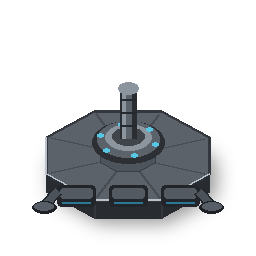
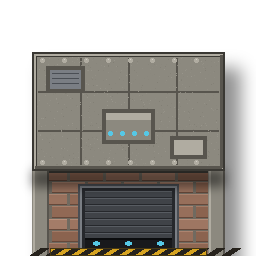
Rebuild the garage as a masonry building with the roboport antenna
The platform never looked like somewhere drones are kept. It is now a
building: brick wall, concrete roof, a roll up door with hazard paint on
the threshold and lights in the opening. The antenna that turns on the
roof is the roboport one from the base game, which is what it should
have been from the start, so the hand drawn sheet is gone.

diff --git a/tools/gen_garage.py b/tools/gen_garage.py
@@ -1,196 +1,188 @@
-"""Generates the drone garage sprites: a 3x3 platform plus a rotating antenna animation."""
+"""Draws the drone garage: a masonry building in the game's own palette, 3x3 tiles.
+
+The antenna on the roof is not drawn here, the mod borrows the roboport one from the base game.
+Run this from the mod root to overwrite the sprites in data/entities/graphics/.
+"""
 import math
+import random
 from PIL import Image, ImageDraw, ImageFilter
 
-OUT = "/mnt/SSD/git-projeto/factorio_construction_drones/Construction_Drones/data/entities/graphics/"
+OUT = "data/entities/graphics/"
 
-STEEL_DARK = (52, 56, 62)
-STEEL = (92, 98, 106)
-STEEL_LIGHT = (140, 148, 158)
-STEEL_HIGH = (186, 194, 202)
-RUST = (104, 84, 66)
+SIZE = 256
+TILE = 64                      # high resolution, the sprite is drawn at half scale
+FOOT = 3 * TILE                # a three by three footprint
+CENTER = (128, 160)            # where the entity position falls on the canvas
+WALL_H = 86                    # how tall the brick wall stands
+ROOF_H = 118                   # the roof is foreshortened, the game looks at buildings from an angle
+
+CONCRETE = (140, 137, 127)
+CONCRETE_LIGHT = (176, 172, 161)
+CONCRETE_DARK = (88, 85, 78)
+CONCRETE_DEEP = (58, 56, 51)
+BRICK = (152, 112, 92)
+BRICK_DARK = (102, 72, 58)
+MORTAR = (112, 106, 96)
+METAL = (122, 126, 132)
+METAL_DARK = (74, 78, 84)
+HAZARD = (214, 163, 32)
 ACCENT = (86, 200, 230)
-ACCENT_DIM = (44, 120, 148)
 
-BASE_SIZE = 256          # canvas of the static platform, high res (64 px per tile)
-FOOT = 192               # 3 tiles
-CENTER = (128, 156)      # where the structure sits on the canvas
+random.seed(7)
 
 
-def bevel_polygon(draw, points, fill, light, dark, width=3):
-    draw.polygon(points, fill=fill)
-    n = len(points)
-    for i in range(n):
-        a, b = points[i], points[(i + 1) % n]
-        # edges facing up/left catch the light
-        up = (a[1] + b[1]) / 2 < sum(p[1] for p in points) / n
-        draw.line([a, b], fill=light if up else dark, width=width)
+def footprint():
+    cx, cy = CENTER
+    return [cx - FOOT / 2, cy - FOOT / 2, cx + FOOT / 2, cy + FOOT / 2]
 
 
-def iso_ellipse(draw, cx, cy, rx, ry, **kw):
-    draw.ellipse([cx - rx, cy - ry, cx + rx, cy + ry], **kw)
+def brick_wall(draw, box, rows=7):
+    """Masonry: staggered courses, each brick shaded a little differently."""
+    x0, y0, x1, y1 = box
+    draw.rectangle(box, fill=MORTAR)
+    height = (y1 - y0) / rows
+    for row in range(rows):
+        top = y0 + row * height
+        bottom = top + height - 2
+        offset = 0 if row % 2 == 0 else -18
+        x = x0 + offset
+        while x < x1:
+            bx0, bx1 = max(x0, x + 2), min(x1, x + 34)
+            if bx1 - bx0 > 3:
+                shade = random.randint(-14, 14)
+                fill = tuple(max(0, min(255, c + shade)) for c in BRICK)
+                draw.rectangle([bx0, top, bx1, bottom], fill=fill)
+                draw.line([(bx0, top), (bx1, top)], fill=tuple(min(255, c + 22) for c in fill))
+                draw.line([(bx0, bottom), (bx1, bottom)], fill=BRICK_DARK)
+            x += 36
 
 
-def draw_leg(draw, cx, cy, dx, dy, length, width):
-    """A short strut under the deck edge, with a foot pad on the ground."""
-    ex, ey = cx + dx * length, cy + dy * length * 0.55
-    draw.line([(cx, cy), (ex, ey)], fill=(34, 37, 42), width=width + 3)
-    draw.line([(cx, cy), (ex, ey)], fill=(76, 82, 90), width=width)
-    iso_ellipse(draw, ex, ey + 2, width * 1.5, width * 0.7, fill=(30, 33, 37))
-    iso_ellipse(draw, ex, ey + 1, width * 1.2, width * 0.5, fill=(88, 94, 102))
+def roof_slab(draw, box):
+    x0, y0, x1, y1 = box
+    draw.rectangle(box, fill=CONCRETE)
+    # panel seams
+    for i in range(1, 4):
+        x = x0 + (x1 - x0) * i / 4
+        draw.line([(x, y0 + 6), (x, y1 - 6)], fill=CONCRETE_DARK, width=2)
+    for i in range(1, 3):
+        y = y0 + (y1 - y0) * i / 3
+        draw.line([(x0 + 6, y), (x1 - 6, y)], fill=CONCRETE_DARK, width=2)
+    # speckle, so the concrete is not flat
+    for _ in range(900):
+        x, y = random.uniform(x0 + 2, x1 - 2), random.uniform(y0 + 2, y1 - 2)
+        shade = random.randint(-10, 12)
+        draw.point((x, y), fill=tuple(max(0, min(255, c + shade)) for c in CONCRETE))
+    # parapet: a raised lip all around, lit from the top left
+    draw.rectangle(box, outline=CONCRETE_DEEP, width=5)
+    draw.rectangle([x0 + 2, y0 + 2, x1 - 2, y1 - 2], outline=CONCRETE_LIGHT, width=2)
+    draw.line([(x0 + 3, y1 - 3), (x1 - 3, y1 - 3)], fill=CONCRETE_DARK, width=3)
+    draw.line([(x1 - 3, y0 + 3), (x1 - 3, y1 - 3)], fill=CONCRETE_DARK, width=3)
 
 
-def octagon(cx, cy, rx, ry):
-    pts = []
-    for i in range(8):
-        a = math.pi / 8 + i * math.pi / 4
-        pts.append((cx + rx * math.cos(a), cy + ry * math.sin(a)))
-    return pts
+def rivets(draw, box, step=22):
+    x0, y0, x1, y1 = box
+    for x in range(int(x0) + 10, int(x1) - 6, step):
+        for y in (y0 + 8, y1 - 8):
+            draw.ellipse([x - 2, y - 2, x + 2, y + 2], fill=CONCRETE_LIGHT)
+            draw.point((x, y - 1), fill=(210, 206, 198))
+
+
+def garage_door(draw, box):
+    """A roll up door: dark recess, slats, a metal frame and hazard paint on the threshold."""
+    x0, y0, x1, y1 = box
+    draw.rectangle([x0 - 4, y0 - 4, x1 + 4, y1], fill=METAL_DARK)
+    draw.rectangle([x0 - 2, y0 - 2, x1 + 2, y1], fill=METAL)
+    draw.rectangle(box, fill=(38, 40, 44))
+    slat = 7
+    y = y0 + 3
+    while y < y1 - 4:
+        draw.rectangle([x0 + 3, y, x1 - 3, y + slat - 2], fill=(64, 67, 72))
+        draw.line([(x0 + 3, y), (x1 - 3, y)], fill=(88, 92, 98))
+        y += slat
+    # the opening at the bottom, where the drones come out
+    draw.rectangle([x0 + 3, y1 - 12, x1 - 3, y1], fill=(24, 25, 28))
+    draw.line([(x0 + 3, y1 - 12), (x1 - 3, y1 - 12)], fill=(12, 13, 15), width=2)
+    for i in range(3):
+        lx = x0 + 14 + i * ((x1 - x0 - 28) / 2)
+        draw.ellipse([lx - 3, y1 - 9, lx + 3, y1 - 5], fill=ACCENT)
+
+
+def hazard_strip(draw, box):
+    x0, y0, x1, y1 = box
+    draw.rectangle(box, fill=HAZARD)
+    for x in range(int(x0) - 20, int(x1) + 20, 16):
+        draw.polygon([(x, y1), (x + 8, y1), (x + 8 + 10, y0), (x + 10, y0)], fill=(38, 34, 28))
+    draw.rectangle(box, outline=(70, 56, 20))
 
 
 def make_base():
-    img = Image.new("RGBA", (BASE_SIZE, BASE_SIZE), (0, 0, 0, 0))
-    cx, cy = CENTER
-    rx, ry = FOOT * 0.46, FOOT * 0.25
-    deck = octagon(cx, cy, rx, ry)
-    wall_h = 18
+    img = Image.new("RGBA", (SIZE, SIZE), (0, 0, 0, 0))
+    fx0, fy0, fx1, fy1 = footprint()
+    # the roof sits above the wall and is squashed, the wall below it is what the player mostly sees
+    roof = [fx0, fy1 - WALL_H - ROOF_H, fx1, fy1 - WALL_H]
 
-    # soft ground shadow
-    shadow = Image.new("RGBA", (BASE_SIZE, BASE_SIZE), (0, 0, 0, 0))
-    ImageDraw.Draw(shadow).polygon([(x + 6, y + wall_h + 4) for x, y in deck], fill=(0, 0, 0, 110))
-    img.alpha_composite(shadow.filter(ImageFilter.GaussianBlur(9)))
+    # shadow, thrown to the lower right like every building in the game
+    shadow = Image.new("RGBA", (SIZE, SIZE), (0, 0, 0, 0))
+    ImageDraw.Draw(shadow).rectangle([fx0 + 12, roof[1] + 16, fx1 + 16, fy1 + 4], fill=(0, 0, 0, 110))
+    img.alpha_composite(shadow.filter(ImageFilter.GaussianBlur(8)))
 
     d = ImageDraw.Draw(img)
 
-    # side wall: the lower silhouette of the deck, extruded down
-    lower = [p for p in deck if p[1] >= cy - 1]
-    lower.sort(key=lambda p: p[0])
-    wall = [(x, y + wall_h) for x, y in reversed(lower)]
-    d.polygon(lower + wall, fill=(40, 43, 48))
-    for x, y in lower[1:-1]:
-        d.line([(x, y), (x, y + wall_h)], fill=(52, 56, 62), width=2)
+    # front wall, from the roof line down to the bottom of the footprint
+    wall = [fx0, roof[3], fx1, fy1]
+    brick_wall(d, wall)
+    d.rectangle(wall, outline=CONCRETE_DEEP, width=3)
 
-    # deck plate
-    d.polygon(deck, fill=STEEL)
-    d.line(deck + [deck[0]], fill=STEEL_DARK, width=3)
+    # concrete pillars at the corners of the wall
+    for x in (fx0, fx1 - 16):
+        d.rectangle([x, roof[3], x + 16, fy1], fill=CONCRETE)
+        d.line([(x + 1, roof[3]), (x + 1, fy1)], fill=CONCRETE_LIGHT, width=2)
+        d.line([(x + 15, roof[3]), (x + 15, fy1)], fill=CONCRETE_DARK, width=2)
+
+    door_w, door_h = 92, WALL_H - 24
+    door = [CENTER[0] - door_w / 2, fy1 - door_h - 6, CENTER[0] + door_w / 2, fy1 - 6]
+    garage_door(d, door)
+    hazard_strip(d, [fx0 + 18, fy1 - 8, fx1 - 18, fy1 - 1])
+
+    # the roof overhangs a little, so the top of the wall sits in its shadow
+    shade = Image.new("RGBA", (SIZE, SIZE), (0, 0, 0, 0))
+    ImageDraw.Draw(shade).rectangle([fx0, roof[3], fx1, roof[3] + 16], fill=(0, 0, 0, 120))
+    img.alpha_composite(shade.filter(ImageFilter.GaussianBlur(5)))
+
+    # roof slab on top of the wall
+    roof_slab(d, roof)
+    rivets(d, roof)
+
+    # a vent box and a crate, so the roof is not empty
+    d.rectangle([roof[0] + 14, roof[1] + 14, roof[0] + 52, roof[1] + 40], fill=CONCRETE_DARK)
+    d.rectangle([roof[0] + 18, roof[1] + 18, roof[0] + 48, roof[1] + 36], fill=METAL)
+    for i in range(3):
+        y = roof[1] + 21 + i * 5
+        d.line([(roof[0] + 20, y), (roof[0] + 46, y)], fill=METAL_DARK)
+
+    d.rectangle([roof[2] - 54, roof[3] - 34, roof[2] - 18, roof[3] - 12], fill=CONCRETE_DARK)
+    d.rectangle([roof[2] - 50, roof[3] - 30, roof[2] - 22, roof[3] - 16], fill=CONCRETE_LIGHT)
+
+    # the mount the antenna stands on, in the middle of the roof
+    mx, my = CENTER[0], roof[1] + (roof[3] - roof[1]) * 0.62
+    d.rectangle([mx - 26, my - 16, mx + 26, my + 18], fill=CONCRETE_DARK)
+    d.rectangle([mx - 22, my - 12, mx + 22, my + 14], fill=CONCRETE)
+    d.rectangle([mx - 22, my - 12, mx + 22, my - 6], fill=CONCRETE_LIGHT)
     for i in range(4):
-        a, b = deck[i], deck[i + 1]
-        d.line([a, b], fill=STEEL_HIGH, width=2)
-
-    # plating grooves
-    for i in range(8):
-        a = math.pi / 8 + i * math.pi / 4
-        d.line([(cx + rx * 0.34 * math.cos(a), cy + ry * 0.34 * math.sin(a)),
-                (cx + rx * 0.94 * math.cos(a), cy + ry * 0.94 * math.sin(a))],
-               fill=(72, 77, 84), width=2)
-    d.polygon(octagon(cx, cy, rx * 0.34, ry * 0.34), fill=(78, 84, 92), outline=(58, 62, 68))
-
-    # drone bays on the front wall
-    for ox in (-52, 0, 52):
-        x0, y0 = cx + ox - 19, cy + ry * 0.62
-        d.rounded_rectangle([x0, y0, x0 + 38, y0 + 21], radius=4, fill=(34, 37, 42))
-        d.rounded_rectangle([x0 + 3, y0 + 3, x0 + 35, y0 + 13], radius=3, fill=(84, 90, 98))
-        d.line([(x0 + 5, y0 + 17), (x0 + 33, y0 + 17)], fill=ACCENT_DIM, width=2)
-
-    # short struts holding the deck up, at the two front corners
-    for dx in (-1, 1):
-        draw_leg(d, cx + dx * rx * 0.80, cy + ry * 0.36 + wall_h, dx * 0.5, 1, 26, 8)
-
-    # central hub
-    iso_ellipse(d, cx, cy - 14, 36, 21, fill=(44, 47, 52))
-    iso_ellipse(d, cx, cy - 17, 31, 18, fill=STEEL)
-    iso_ellipse(d, cx, cy - 19, 23, 13, fill=STEEL_LIGHT)
-    iso_ellipse(d, cx, cy - 20, 16, 9, fill=(64, 69, 76))
-    for i in range(6):
-        a = i * math.pi / 3 + 0.3
-        iso_ellipse(d, cx + 29 * math.cos(a), cy - 16 + 16 * math.sin(a), 3, 2, fill=ACCENT)
-
-    # mast
-    d.rectangle([cx - 8, cy - 68, cx + 8, cy - 18], fill=(42, 45, 50))
-    d.rectangle([cx - 6, cy - 68, cx + 3, cy - 18], fill=STEEL)
-    d.rectangle([cx - 6, cy - 68, cx - 3, cy - 18], fill=STEEL_LIGHT)
-    for y in range(int(cy) - 70, int(cy) - 22, 13):
-        d.line([(cx - 8, y), (cx + 8, y)], fill=(38, 41, 46), width=2)
-    iso_ellipse(d, cx, cy - 68, 10, 6, fill=STEEL_LIGHT)
+        lx = mx - 18 + i * 12
+        d.ellipse([lx - 2, my + 6, lx + 2, my + 10], fill=ACCENT)
 
     img.save(OUT + "drone_garage_base.png")
     return img
 
 
-FRAMES = 24
-FRAME = 160
-FCENTER = (80, 118)      # the mast top inside a frame
-
-
-def draw_dish(d, cx, cy, angle):
-    """A dish on a yoke, spinning around the mast. Facing the camera it shows its inside."""
-    facing = math.cos(angle)          # 1 = towards the viewer, -1 = away
-    side = math.sin(angle)
-    reach = 26
-
-    # yoke arm from the mast towards the dish
-    ax, ay = cx + side * reach * 0.55, cy - 4 + facing * 6
-    d.line([(cx, cy), (ax, ay)], fill=STEEL_DARK, width=7)
-    d.line([(cx, cy - 1), (ax, ay - 1)], fill=STEEL, width=4)
-
-    rx = 30 * (0.30 + 0.70 * abs(side)) if False else 30
-    # the dish flattens when it points at or away from the camera is wrong for a horizontal
-    # spin: it flattens when seen edge on, which happens at side == +-1
-    rx = 30 * (0.34 + 0.66 * abs(facing))
-    ry = 21
-
-    box = [ax - rx, ay - ry, ax + rx, ay + ry]
-    if facing >= 0:
-        # inside of the dish, lit
-        d.ellipse(box, fill=(70, 76, 84), outline=STEEL_DARK, width=3)
-        inner = [ax - rx * 0.72, ay - ry * 0.72, ax + rx * 0.72, ay + ry * 0.72]
-        d.ellipse(inner, fill=(96, 104, 114), outline=(58, 63, 70), width=2)
-        d.ellipse([ax - rx * 0.3, ay - ry * 0.3, ax + rx * 0.3, ay + ry * 0.3],
-                  fill=ACCENT_DIM)
-        # feed horn on struts, in front of the dish
-        fx, fy = ax + side * 4, ay + 13
-        d.line([(ax - rx * 0.6, ay), (fx, fy)], fill=STEEL_DARK, width=2)
-        d.line([(ax + rx * 0.6, ay), (fx, fy)], fill=STEEL_DARK, width=2)
-        d.ellipse([fx - 4, fy - 4, fx + 4, fy + 4], fill=STEEL_LIGHT, outline=STEEL_DARK)
-    else:
-        # back of the dish, a plain shell with ribs
-        d.ellipse(box, fill=STEEL, outline=STEEL_DARK, width=3)
-        d.ellipse([ax - rx * 0.55, ay - ry * 0.55, ax + rx * 0.55, ay + ry * 0.55],
-                  fill=(74, 80, 88), outline=(58, 63, 70), width=2)
-        d.line([(ax - rx, ay), (ax + rx, ay)], fill=(64, 69, 76), width=2)
-
-    # a blinking tip light, brighter when the dish faces us
-    glow = int(120 + 135 * max(0.0, facing))
-    d.ellipse([ax - 3, ay - ry - 6, ax + 3, ay - ry], fill=(glow, 60, 60))
-
-
-def make_animation():
-    cols, rows = 6, 4
-    sheet = Image.new("RGBA", (FRAME * cols, FRAME * rows), (0, 0, 0, 0))
-    for i in range(FRAMES):
-        frame = Image.new("RGBA", (FRAME, FRAME), (0, 0, 0, 0))
-        d = ImageDraw.Draw(frame)
-        angle = 2 * math.pi * i / FRAMES
-        cx, cy = FCENTER
-        # bearing on top of the mast
-        d.ellipse([cx - 11, cy - 7, cx + 11, cy + 7], fill=STEEL_DARK)
-        d.ellipse([cx - 8, cy - 6, cx + 8, cy + 3], fill=STEEL)
-        draw_dish(d, cx, cy - 4, angle)
-        sheet.alpha_composite(frame, (FRAME * (i % cols), FRAME * (i // cols)))
-    sheet.save(OUT + "drone_garage_antenna.png")
-    return sheet
-
-
 def make_icon(base):
     icon = Image.new("RGBA", (256, 256), (0, 0, 0, 0))
-    shot = base.crop((16, 40, 240, 264)).resize((236, 236), Image.LANCZOS)
-    icon.alpha_composite(shot, (10, 10))
-    d = ImageDraw.Draw(icon)
-    draw_dish(d, 128, 92, math.pi * 0.15)
+    crop = base.crop((28, 46, 228, 246)).resize((240, 240), Image.LANCZOS)
+    icon.alpha_composite(crop, (8, 8))
     icon.resize((64, 64), Image.LANCZOS).save(OUT + "drone_garage_icon.png")
 
 
 base = make_base()
-anim = make_animation()
 make_icon(base)
 print("ok")

diff --git a/readme.md b/readme.md
@@ -32,8 +32,8 @@ The drones take their orders from a **drone controller**. It is a gun, so it goe
 character has from the start, and each controller you carry commands a few drones at the same time, more if it is
 of a higher quality. Without one in a weapon slot, the drones sit still.
 
-The **drone garage** is a 3 by 3 building with a turning antenna, unlocked by a technology behind radar. It does
-three things:
+The **drone garage** is a 3 by 3 masonry building with the roboport antenna turning on its roof, unlocked by a
+technology behind radar. It does three things:
 
 * it commands five more drones while its area covers you, so building several is how you get a bigger swarm
 * drones on their way back unload their cargo into a garage in range instead of into your pockets
